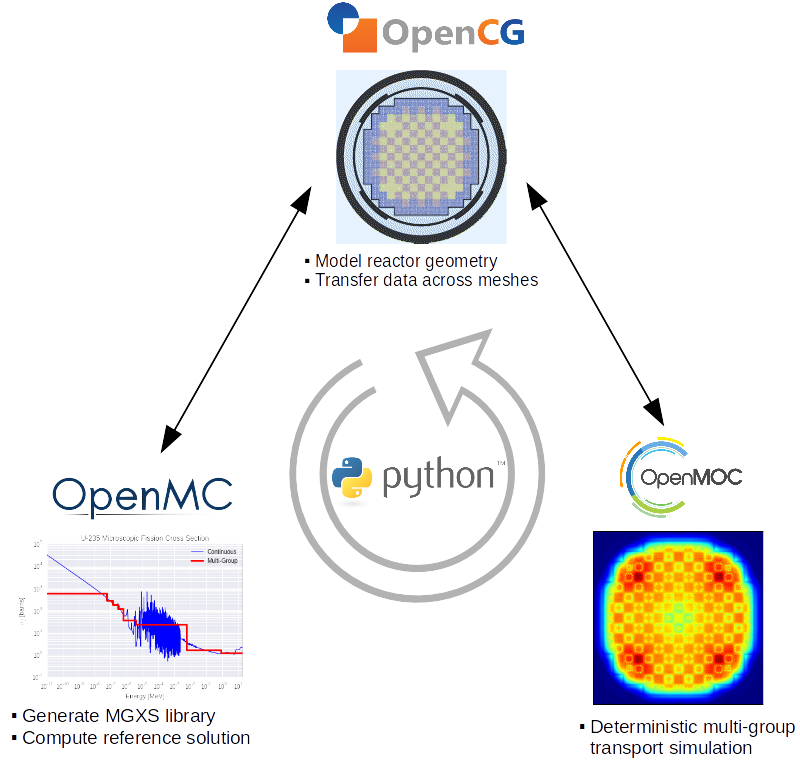
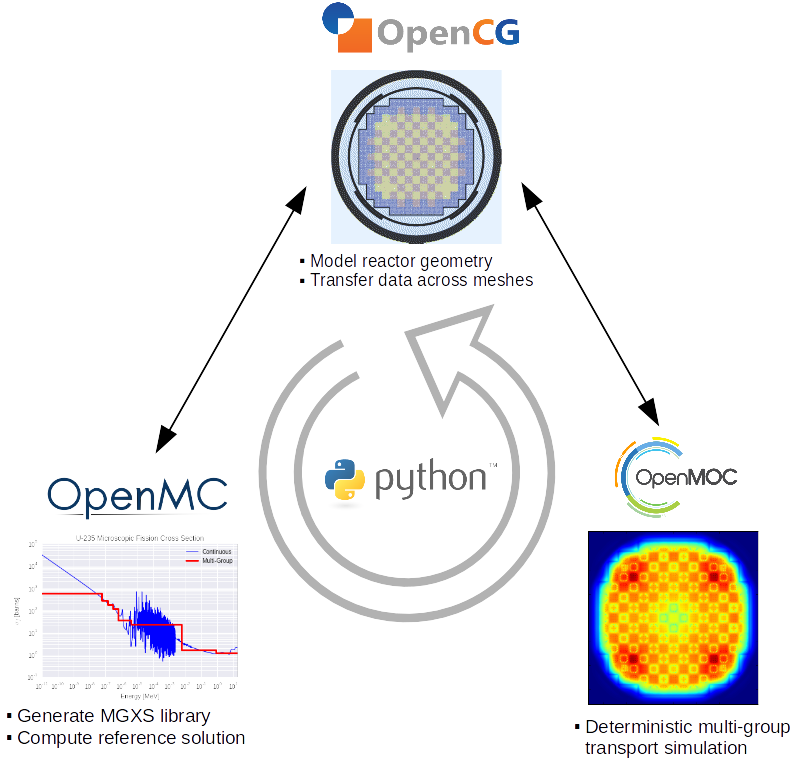
First round of updates for kords comments

diff --git a/chapters/workflow.tex b/chapters/workflow.tex
@@ -31,7 +31,7 @@ This thesis investigates Monte Carlo as a means to generate multi-group cross se
 
 \begin{figure}[h]
   \centering
-  \includegraphics[width=0.8\linewidth]{figures/workflow/triad/simulation-triad}
+  \includegraphics[width=\linewidth]{figures/workflow/triad/simulation-triad}
 \caption[A simulation triad of OpenMC, OpenMOC and OpenCG]{A simulation triad consisting of the OpenMC, OpenMOC and OpenCG codes ``glued'' together with Python formed the foundation for this thesis research.}
 \label{fig:chap4-simulation-triad}
 \end{figure}
@@ -61,12 +61,12 @@ This chapter describes the author's contributions to each component code in the 
 \section{OpenMC}
 \label{sec:chap4-openmc}
 
-The OpenMC code is a continuous energy Monte Carlo neutron transport code~\cite{romano2013openmc} with support for general constructive solid geometry models. OpenMC was initially created by Romano for his PhD thesis~\cite{romano2013parallel} to explore novel parallel algorithms for \ac{HPC} architectures. The code was released for public use with the MIT open source license, and has attracted growing interest as a platform for the development of new physics methods and computational algorithms. Although this thesis could have plausibly used any continuous energy \ac{MC} neutron transport code to generate \ac{MGXS}, this author chose OpenMC for its general and extensible implementation, excellent parallel scalability, and open source license agreement which permits the modification of its codebase. The general physics and computational methods implemented in OpenMC will not be detailed here since they are well documented in the literature. The interested reader is referred to the online code manual~\cite{openmc2016manual} for further information.
+The OpenMC code is a continuous energy Monte Carlo neutron transport code~\cite{romano2013openmc} with support for general constructive solid geometry models. OpenMC was initially created by Romano for his Ph.D. thesis~\cite{romano2013parallel} to explore novel parallel algorithms for \ac{HPC} architectures. The code was released for public use with the MIT open source license, and has attracted growing interest as a platform for the development of new physics methods and computational algorithms. Although this thesis could have plausibly used any continuous energy \ac{MC} neutron transport code to generate \ac{MGXS}, this author chose OpenMC for its general and extensible implementation, excellent parallel scalability, and open source license agreement which permits the modification of its codebase. The general physics and computational methods implemented in OpenMC will not be detailed here since they are well documented in the literature. The interested reader is referred to the online code manual~\cite{openmc2016manual} for further information.
 
 This thesis developed new features for OpenMC to enable the processing of large tally datasets to generate \ac{MGXS}. These contributions were motivated by the novel spatial homogenization technique presented in 
 Chaps.~\Crefrange{chap:benchmarks}{chap:unsupervised} which required the calculation of microscopic \ac{MGXS} for each nuclide in each spatial zone across a reactor core geometry. The tally datasets for this scheme are orders of magnitude larger than those generated by the multi-level approaches previously considered in the literature. In particular, the tally datasets are computed on a fine (\textit{e.g.}, pin-wise) spatial tally mesh for a fully-detailed heterogeneous whole-core geometry. This stands in contrast to multi-level approaches which compute \ac{MGXS} for each unique fuel pin or assembly with infinite lattice boundary conditions for use in a multi-group whole-core calculation. For example, the scheme introduced here would tally \ac{MGXS} for each of the $\mathcal{O}(50,000)$ fuel pins in a whole-core \ac{MC} simulation of a \ac{PWR}. In contrast, a multi-level approach would compute \ac{MGXS} for the $\mathcal{O}(10)$ of unique fuel pins or assemblies in the model with pin-wise or assembly-wise \ac{MC} simulations.
 
-This thesis' requirements for ``big data'' Monte Carlo calculations can be defined along two primary dimensions: scalable parallel algorithms for efficient \ac{MC} tracking, sampling and tallying, along with flexible and robust tools for downstream data processing. The first of these dimensions has been a focal point for OpenMC development since its inception. OpenMC includes distributed memory parallelism via the Message Passing Interface (MPI) and has been shown to scale with near perfect efficiency to 100,000s of processor cores~\cite{romano2013parallel}. In addition, shared memory parallelism is implemented with the OpenMP library~\cite{siegel2014multi} which reduces the simulation memory footprint by minimizing domain replication on multi-core processors. Furthermore, recent work has developed innovative schemes to manage tally datasets with memory footprints beyond that available on a single node in a typical \ac{HPC} machine (a few tens of gigabytes) with tally servers~\cite{romano2013servers} and spatial domain decomposition~\cite{horelik2014dd}. The efficient parallel algorithms already implemented in OpenMC were a key reason to use the code for this thesis work.
+This thesis' requirements for ``big data'' Monte Carlo calculations can be defined along two primary dimensions: scalable parallel algorithms for efficient \ac{MC} tracking, sampling and tallying, along with flexible and robust tools for downstream data processing. The first of these dimensions has been a focal point for OpenMC development since its inception. OpenMC includes distributed memory parallelism via the Message Passing Interface (MPI)~\cite{gropp1996mpi} and has been shown to scale with near perfect efficiency to 100,000s of processor cores~\cite{romano2013parallel}. In addition, shared memory parallelism is implemented with the OpenMP library~\cite{siegel2014multi} which reduces the simulation memory footprint by minimizing domain replication on multi-core processors. Furthermore, recent work has developed innovative schemes to manage tally datasets with memory footprints beyond that available on a single node in a typical \ac{HPC} machine (a few tens of gigabytes) with tally servers~\cite{romano2013servers} and spatial domain decomposition~\cite{horelik2014dd}. The efficient parallel algorithms already implemented in OpenMC were a key reason to use the code for this thesis work.
 
 However, this thesis did involve the development of software tools to address the data processing needs for ``big data'' \ac{MC} calculations. It is the author's opinion that these data processing tools uniquely position OpenMC as the only \ac{MC} code presently capable of supporting the \ac{MGXS} generation scheme introduced in Chaps.~\Crefrange{chap:benchmarks}{chap:unsupervised}. For example, many commonly used \ac{MC} codes store and retrieve tally data from \ac{ASCII} formatted files or flat binary files. Although these file formats may work well for small tally datasets, they do not scale well for the tally datasets used in this thesis. The data processing paradigm reinforced by many \ac{MC} codes places an large burden on the user to write convoluted parsers to extract tally data without a generic set of tools to guide the process. In addition, many tally data stores are organized in a way that necessarily serializes tally data access without the metadata needed to index data in an efficient and parallel manner. Furthermore, many data stores are highly tailored to tallies on Cartesian or hexagonal meshes rather than the more complex unstructured meshes needed to generate \ac{MGXS} for fine mesh transport codes. The software tools developed for this thesis attempt to mitigate these issues and formalize a flexible and scalable tally data model for OpenMC.
 
@@ -160,14 +160,24 @@ It should be noted that the uncertainty propagation in tally arithmetic makes th
 Many Monte Carlo codes, including OpenMC, use some variant of combinatorial geometry. because it can represent arbitrary, repeating geometries such as fuel pins and assemblies. However, the \ac{CG} approach is challenged by applications which require tallies in each instance of a repeated cell throughout a reactor geometry, such as the \ac{BEAVRS} benchmark model~\cite{horelik2013beavrs} depicted in Fig.~\ref{fig:beavrs}. The ``brute force'' solution is to instantiate a unique cell for each distinct tally zone. However, this defeats the purpose of using \ac{CG} for its compact representation, and it is not scalable to problems with large tally datasets such as those considered in this thesis.
 
 \begin{figure}[h!]
+\begin{subfigure}{\textwidth}
   \centering
-  \includegraphics[width=2.5in]{figures/workflow/openmc/core}\hspace{1cm}
-  \includegraphics[width=2.5in]{figures/workflow/openmc/core_axial}
+  \includegraphics[width=5in]{figures/workflow/openmc/core}
+  \caption{}
+\end{subfigure}
+\begin{subfigure}{\textwidth}
+  \centering
+  \includegraphics[width=5in]{figures/workflow/openmc/core_axial}
+  \caption{}
+\end{subfigure}
+%  \centering
+%  \includegraphics[width=5in]{figures/workflow/openmc/core}\hspace{1cm}
+%  \includegraphics[width=5in]{figures/workflow/openmc/core_axial}
 \caption[Radial and axial views of the BEAVRS core]{The radial (a) and axial (b) views of the BEAVRS \ac{PWR} core geometry~\cite{horelik2013beavrs}. The distributed cell tally algorithm provides a simple and efficient interface to tally within each of the 50,000+ fuel, guide tube, and burnable poison pin cells in complex heterogeneous models like the \ac{BEAVRS} core.}
 \label{fig:beavrs}
 \end{figure}
 
-The \textit{distributed cell tally} algorithm was implemented in OpenMC to permit simply defined spatial tally zones across repeated cell instances~\cite{lax2014distribcell}. The distributed cell algorithm, commonly abbreviated as the \textit{distribcell} algorithm, classifies each unique cell instance using \textit{maps} and \textit{offsets} which consume orders of magnitude less memory than would be required by the ``brute force'' approach. Only a single transparent line of \ac{XML} input is necessary to define a distribcell tally which may span across an arbitrary number of instances for a particular cell. Furthermore, the Python \ac{API} may be used to perform efficient vectorized transformations of distribcell tally data stored as contiguous NumPy arrays. The distribcell tally algorithm was used to compute spatially-varying \ac{MGXS} across fuel pin cell instances for the spatial homogenization methology introduced in Chaps.~\Crefrange{chap:benchmarks}{chap:unsupervised}.
+The \textit{distributed cell tally} algorithm was implemented in OpenMC for D. Lax's M.S. thesis~\cite{lax2014distribcell} to permit simply defined spatial tally zones across repeated cell instances. The distributed cell algorithm, commonly abbreviated as the \textit{distribcell} algorithm, classifies each unique cell instance using \textit{maps} and \textit{offsets} which consume orders of magnitude less memory than would be required by the ``brute force'' approach. Only a single transparent line of \ac{XML} input is necessary to define a distribcell tally which may span across an arbitrary number of instances for a particular cell. Furthermore, the Python \ac{API} may be used to perform efficient vectorized transformations of distribcell tally data stored as contiguous NumPy arrays. The distribcell tally algorithm was used to compute spatially-varying \ac{MGXS} across fuel pin cell instances for the spatial homogenization methology introduced in Chaps.~\Crefrange{chap:benchmarks}{chap:unsupervised}.
 
 The distribcell tally algorithm consists of pre-processing and indexing stages. The pre-processing phase builds a mapping to index unique regions based on the unique combination of cells, universes and lattices used to construct each region. This is done by storing offset numbers in the data structures for each fill cell\footnote{Any cell that is filled with a nested universe or lattice of cells.}. The offset maps are recursively constructed starting from the top-level universe and proceeding through each lower nested universe level in the combinatorial geometry. The pre-processing algorithm tabulates the total number of instances of each cell in the geometry in order to dynamically allocate memory for distribcell tally arrays. At runtime, the on-the-fly indexing scheme efficiently computes cell instance IDs in order to index and score to the appropriate bin(s) in distribcell tallies. The cell instance IDs are simply found by summing the offsets at each nested universe level along the path to the cell instance in the \ac{CG} as shown in Fig.~\ref{fig:indexing-scheme}. The interested reader is referred to~\cite{lax2014distribcell} for details about the distribcell tally algorithm, including pseudocode for pre-processing and indexing and a performance model for the memory footprint consumed by offsets and maps.
 
@@ -184,7 +194,7 @@ The distribcell tally algorithm consists of pre-processing and indexing stages. 
 
 As part of this thesis, a unique option for isotropic in lab scattering was implemented in the OpenMC code. The isotropic in lab (abbreviated as iso-in-lab) feature may be useful to quantify the ability of multi-group codes to capture anisotropic scattering effects with higher order scattering matrices or transport correction schemes (see Sec.~\ref{subsec:chap2-transport-corr}). The iso-in-lab scattering feature was implemented as a ``scattering'' attribute for each nuclide/element in a simulation. When iso-in-lab scattering is specified for a nuclide/element, the outgoing neutron energy is sampled from the scattering laws prescribed by the continuous energy cross section library, but the outgoing neutron direction of motion is sampled from an isotropic in lab distribution. 
 
-Unless otherwise noted, isotropic in lab scattering was employed in OpenMC to generate the \ac{MGXS} used in this thesis. The iso-in-lab scattering feature enabled ``apples-to-apples'' comparisons between the reference eigenvalues and reaction rates produced by OpenMC and those computed from isotropic multi-group calculations with OpenMOC.
+Unless otherwise noted, isotropic in lab scattering was employed in OpenMC to generate the \ac{MGXS} used in this thesis. Isotropic scattering is generally not a valid approximation for nuclear reactors and may induce large errors for thermal systems such as the \ac{PWR} benchmarks modeled in this thesis. However, the iso-in-lab scattering feature enabled ``apples-to-apples'' comparisons between the reference eigenvalues and reaction rates produced by OpenMC and those computed from isotropic multi-group calculations with OpenMOC.
 
 %%%%%%%%%%%%%%%%%%%%%%%%%%%%
 \subsection{MGXS Generation}
@@ -373,7 +383,7 @@ OpenCG's object-oriented Python software model permits greater freedom for geome
 
 One of the unique algorithms implemented in OpenCG explicitly for this thesis is known as Local Neighbor Symmetry (LNS) identification~\cite{boyd2015opencg}. The LNS algorithm is motivated by this thesis' objective to accurately predict spatial zones that experience similar spectral self-shielding effects. The \ac{LNS} algorithm performs a systematic analysis of a \ac{CG} tree data structure to identify neighbor cells, or pairs of cells which are adjacent to one another. The neighbor cells are assembled into a heuristic which groups like spatial zones with common \ac{LNS} identifiers. The \ac{LNS} algorithm is analogous to the geometric templates used in lattice physics codes such as CASMO~\cite{edenius1995casmo} to identify fuel pins which have similar \ac{MGXS} in a fuel assembly.
 
-The \ac{LNS} algorithm identifies the unique symmetry for the path to a region in a combinatorial geometry as described in Alg.~\ref{alg:local-neighbor-symmetry-cells}. \ac{LNS} performs a \ac{BFS} to find neighbors on each level of the \ac{CG} tree. For example, \ac{BFS} is used to find neighbor cells for a particular cell within a universe. Similarly, \ac{BFS} is used to find neighbor universes adjacent to a particular lattice cell. The neighbor cells and universes on each of the $k$ levels of a \ac{CG} tree are connected to form a $k$-partite graph\footnote{A $k$-partite graph is a graph whose graph vertices can be partitioned into $k$ disjoint sets so that no two vertices within the same set are adjacent~\cite{weisstein2012kpartite}.} as depicted in Fig.~\ref{fig:lns-k-partite-graph}. Finally, the $k$-partite graph is used as an argument to a hash function to compute the \ac{LNS} identifier (\textit{e.g}, a non-negative integer) for the particular region represented by the path. This algorithmic formulation is general to any arbitrary combinatorial geometry, including those commonly used to model \ac{LWRs} with nested rectilinear lattices.
+The \ac{LNS} algorithm identifies the unique symmetry for the path to a region in a combinatorial geometry as described in Alg.~\ref{alg:local-neighbor-symmetry-cells}. \ac{LNS} performs a \ac{BFS} to find neighbors on each level of the \ac{CG} tree. For example, \ac{BFS} is used to find neighbor cells for a particular cell within a universe. Similarly, \ac{BFS} is used to find neighbor universes adjacent to a particular lattice cell. The neighbor cells and universes on each of the $k$ levels of a \ac{CG} tree are connected to form a $k$-partite graph\footnote{A $k$-partite graph is a graph whose graph vertices can be partitioned into $k$ disjoint sets so that no two vertices within the same set are adjacent~\cite{weisstein2012kpartite}.} as depicted in Fig.~\ref{fig:lns-k-partite-graph}. Finally, the $k$-partite graph is used as an argument to a hash function to compute the \ac{LNS} identifier (\textit{e.g}, a non-negative integer) for the particular region represented by the path. This algorithmic formulation is general to any arbitrary combinatorial geometry, including those commonly used to model \ac{LWR}s with nested rectilinear lattices.
 
 \begin{algorithm}[h!]
 \caption[OpenCG's Local Neighbor Symmetry Identification]{Local Neighbor Symmetry Identification}

diff --git a/chapters/biases.tex b/chapters/biases.tex
@@ -14,10 +14,10 @@ This chapter investigates the loss in accuracy resulting from approximations mad
 
 \begin{equation}
 \label{eqn:chap5-delta-rho}
-\Delta\rho = \left(k_{eff}^{OpenMOC} - k_{eff}^{OpenMC}\right) \times 1E5
+\Delta\rho = \left(k_{eff}^{OpenMOC} - k_{eff}^{OpenMC}\right) \times 10_{5}
 \end{equation}
 
-In each case study, the role of angular discretization in \ac{MOC} is quantified through convergence studies of the number of azimuthal angles and the track spacing used in the deterministic \ac{MOC} calculations. The effects of energy discretization are analyzed for \ac{MGXS} tallied in the CASMO~\cite{rhodes2006casmo} energy group structures ranging from 1 -- 70 groups (see App.~\ref{app:energy-groups}). For each of the case studies with heterogeneous geometries, the spatial domain is discretized in OpenMOC's \ac{FSR} mesh with constant-by-material \ac{MGXS} to quantify the interaction between the energy and spatial approximations. Spatial discretization studies show the impact of tallying \ac{MGXS} in each of the \ac{FSR}s used in the discretized OpenMOC geometry. Finally, \ac{MGXS} libraries were tallied using OpenMC's iso-in-lab feature (see Sec.~\ref{subsec:chap4-iso-in-lab}) to quantify the impact of the isotropic in lab scattering approximation used in OpenMOC. Inter-pin spatial self-shielding effects are not treated here as they are studied in detail in Chaps.~\Crefrange{chap:benchmarks}{chap:unsupervised}. In each case study, OpenMOC was converged to a criterion of 1E-7 on the energy-integrated fission source.
+In each case study, the role of angular discretization in \ac{MOC} is quantified through convergence studies of the number of azimuthal angles and the track spacing used in the deterministic \ac{MOC} calculations. The effects of energy discretization are analyzed for \ac{MGXS} tallied in the CASMO~\cite{rhodes2006casmo} energy group structures ranging from 1 -- 70 groups (see App.~\ref{app:energy-groups}). For each of the case studies with heterogeneous geometries, the spatial domain is discretized in OpenMOC's \ac{FSR} mesh with constant-by-material \ac{MGXS} to quantify the interaction between the energy and spatial approximations. Spatial discretization studies show the impact of tallying \ac{MGXS} in each of the \ac{FSR}s used in the discretized OpenMOC geometry. Finally, \ac{MGXS} libraries were tallied using OpenMC's iso-in-lab feature (see Sec.~\ref{subsec:chap4-iso-in-lab}) to quantify the impact of the isotropic in lab scattering approximation used in OpenMOC. Inter-pin spatial self-shielding effects are not treated here as they are studied in detail in Chaps.~\Crefrange{chap:benchmarks}{chap:unsupervised}. In each case study, OpenMOC was converged to a criterion of 10$_{-7}$ on the energy-integrated fission source in each \ac{FSR}.
 
 %%%%%%%%%%%%%%%%%%%%%%%%%%%%
 \subsection{Homogeneous Infinite Medium}
@@ -46,7 +46,7 @@ An initial series of case studies were performed for a homogeneous infinite medi
 \end{tabular}
 \end{table}
 
-The reference eigenvalues computed with continuous energy cross sections in OpenMC are shown in Tab.~\ref{table:chap5-inf-med-reference} for both normal anisotropic as well as iso-in-lab scattering. As one would expect for a homogeneous infinite medium, the eigenvalues for anisotropic and iso-in-lab scattering agree to within one standard deviation of the mean. The reference calculations were computed for 100 batches of 1E8 particles per batch. The \texttt{openmc.mgxs} module was used to compute 70-group libraries of $\hat{\Sigma}_{t,g}$, $\hat{\Sigma}_{s,k,g'\rightarrow g}$, $\nu\hat{\Sigma}_{f,g}$, and $\hat{\chi}_{g}$ from OpenMC tallies (see Tab.~\ref{table:chap3-tally-types}).
+The reference eigenvalues computed with continuous energy cross sections in OpenMC are shown in Tab.~\ref{table:chap5-inf-med-reference} for both normal anisotropic as well as iso-in-lab scattering. As one would expect for a homogeneous infinite medium, the eigenvalues for anisotropic and iso-in-lab scattering agree to within one standard deviation of the mean. The reference calculations were computed for 100 batches of 10$_{8}$ particles per batch. The \texttt{openmc.mgxs} module was used to compute 70-group libraries of $\hat{\Sigma}_{t,g}$, $\hat{\Sigma}_{s,k,g'\rightarrow g}$, $\nu\hat{\Sigma}_{f,g}$, and $\hat{\chi}_{g}$ from OpenMC tallies (see Tab.~\ref{table:chap3-tally-types}).
 
 \begin{table}[h!]
   \centering
@@ -70,6 +70,8 @@ The reference eigenvalues computed with continuous energy cross sections in Open
 \label{subsubsec:chap5-inf-med-angle}
 
 The first case study investigated the sensitivity of the OpenMOC eigenvalue to the angular discretization used in the \ac{MOC} calculation. Tab.~\ref{table:chap5-inf-med-angle} presents the bias $\Delta\rho$ between OpenMC and OpenMOC for a matrix of azimuthal angles and track spacings. The results for both normal and iso-in-lab scattering indicate consistent agreement of the eigenvalues irregardless of track discretization. This result is expected since the neutron source is isotropic in homogeneous infinite media and does not depend on the angular discretization used to solve the eigenvalue problem.
+
+\vspace{0.1in}
 
 \begin{table}[h!]
   \centering
@@ -106,7 +108,7 @@ The first case study investigated the sensitivity of the OpenMOC eigenvalue to t
 \subsubsection{Energy Condensation}
 \label{subsubsec:chap5-inf-med-energy}
 
-A second case study investigated the variation of the OpenMOC eigenvalue with the energy group structure used in the \ac{MOC} calculation. Tab.~\ref{table:chap5-inf-med-energy} presents the bias $\Delta\rho$ between OpenMC and OpenMOC for a matrix of energy group structures and \ac{FSR} spatial discretizations. The OpenMOC calculations each used 128 azimuthal angles and 0.01 cm track spacing. Although the eigenvalues differ by approximately 10 \ac{pcm} for 1 -- 2 groups, the OpenMOC eigenvalues match the eigenvalues computed analytically from the 1- and 2-group \ac{MGXS} to within 1 pcm. The 10 \ac{pcm} bias may be due to numerical roundoff error since the \ac{MGXS} library was tallied in 70 groups in OpenMC and condensed to the coarser group structures with data processing  by the \texttt{openmc.mgxs} module.
+A second case study investigated the variation of the OpenMOC eigenvalue with the energy group structure used in the \ac{MOC} calculation. Tab.~\ref{table:chap5-inf-med-energy} presents the bias $\Delta\rho$ between OpenMC and OpenMOC for a matrix of energy group structures and \ac{FSR} spatial discretizations. The OpenMOC calculations each used 128 azimuthal angles and 0.01 cm track spacing. Although the eigenvalues differ by approximately 10 \ac{pcm} for 1 and 2 groups, the OpenMOC eigenvalues match the eigenvalues computed analytically from the 1- and 2-group \ac{MGXS} to within 1 pcm. The 10 \ac{pcm} bias may be due to numerical roundoff error since the \ac{MGXS} library was tallied in 70 groups in OpenMC and condensed to the coarser group structures with data processing  by the \texttt{openmc.mgxs} module.
 
 \begin{table}[h!]
   \centering
@@ -142,7 +144,7 @@ A second case study investigated the variation of the OpenMOC eigenvalue with th
 \subsection{1D Slab}
 \label{subsec:chap5-slab}
 
-A simple slab model was constructed to quantify approximation errors in a 1D heterogeneous geometry with spatial self-shielding. The slab model was constructed as an ``equivalent'' 1D model to the 1.6\% enriched UO$_2$ \ac{PWR} fuel pin in the \ac{BEAVRS} \ac{PWR} model~\cite{horelik2013beavrs}. The geometric configuration of UO$_2$ fuel, helium gap, zirconium clad and water moderator is illustrated in Fig.~\ref{fig:chap5-slab} and the dimensions for each material zone are shown in Tab.~\ref{table:chap5-slab-widths}. The width of each spatial region was chosen to preserve the volumetric fraction of each material in the slab with those in the corresponding 2D fuel pin\footnote{A truly ``equivalent'' slab would preserve the mean chord lengths of each material in the 2D fuel pin.}. Reflective boundary conditions were applied to all $x$, $y$ and $z$ boundaries in the geometry. The isotopic composition of each material in the slab is identical to the \ac{BEAVRS} fuel pin and is itemized in Tab.~\ref{table:chap5-slab-isotopes}. 
+A simple slab model was constructed to quantify approximation errors in a 1D heterogeneous geometry with spatial self-shielding. The slab model was constructed as an ``equivalent'' 1D model to the 2.4\% enriched UO$_2$ \ac{PWR} fuel pin in the \ac{BEAVRS} \ac{PWR} model~\cite{horelik2013beavrs}. The geometric configuration of UO$_2$ fuel, helium gap, zirconium clad and water moderator is illustrated in Fig.~\ref{fig:chap5-slab} and the dimensions for each material zone are shown in Tab.~\ref{table:chap5-slab-widths}. The width of each spatial region was chosen to preserve the volumetric fraction of each material in the slab with those in the corresponding 2D fuel pin\footnote{A truly ``equivalent'' slab would preserve the mean chord lengths of each material in the 2D fuel pin.}. Reflective boundary conditions were applied to all $x$, $y$ and $z$ boundaries in the geometry. The isotopic composition of each material in the slab is identical to the \ac{BEAVRS} fuel pin and is itemized in Tab.~\ref{table:chap5-slab-isotopes}. 
 
 \begin{figure}[h!]
 \begin{subfigure}{\textwidth}
@@ -212,7 +214,7 @@ A simple slab model was constructed to quantify approximation errors in a 1D het
 \end{tabular}
 \end{table}
 
-The reference eigenvalues computed with continuous energy cross sections in OpenMC are shown in Tab.~\ref{table:chap5-slab-reference} for both normal anisotropic as well as iso-in-lab scattering. The reference calculations were computed for 100 batches of 1E7 particles per batch. The reference eigenvalues for the two cases vary by nearly 75 \ac{pcm} due to anisotropies resulting from thermal scattering in the moderator. The \texttt{openmc.mgxs} module was used to compute 70-group libraries of $\hat{\Sigma}_{t,k,g}$, $\hat{\tilde{\Sigma}}_{t,k,g}$, $\hat{\Sigma}_{s,k,g'\rightarrow g}$, $\hat{\tilde{\Sigma}}_{s,k,g'\rightarrow g}$, $\nu\hat{\Sigma}_{f,g}$, and $\hat{\chi}_{g}$ from OpenMC tallies (see Tab.~\ref{table:chap3-tally-types}).
+The reference eigenvalues computed with continuous energy cross sections in OpenMC are shown in Tab.~\ref{table:chap5-slab-reference} for both normal anisotropic as well as iso-in-lab scattering. The reference calculations were computed for 100 batches of 10$_{7}$ particles per batch. The reference eigenvalues for the two cases vary by nearly 75 \ac{pcm} due to anisotropies resulting from thermal scattering in the moderator. The \texttt{openmc.mgxs} module was used to compute 70-group libraries of $\hat{\Sigma}_{t,k,g}$, $\hat{\tilde{\Sigma}}_{t,k,g}$, $\hat{\Sigma}_{s,k,g'\rightarrow g}$, $\hat{\tilde{\Sigma}}_{s,k,g'\rightarrow g}$, $\nu\hat{\Sigma}_{f,g}$, and $\hat{\chi}_{g}$ from OpenMC tallies (see Tab.~\ref{table:chap3-tally-types}).
 
 \begin{table}[h!]
   \centering
@@ -450,7 +452,7 @@ A \ac{PWR} fuel pin cell model was constructed to quantify approximation errors 
 \label{fig:chap5-pin-cell}
 \end{figure}
 
-The reference eigenvalues computed with continuous energy cross sections in OpenMC are shown in Tab.~\ref{table:chap5-pin-reference} for both normal anisotropic and iso-in-lab scattering. The reference calculations were computed for 100 batches of 1E7 particles per batch. The reference eigenvalues for the two cases vary by 65 \ac{pcm} due to anisotropic thermal scattering in the moderator, roughly the same as that for the 1D slab geometry. The \texttt{openmc.mgxs} module was used to compute 70-group libraries of $\hat{\Sigma}_{t,k,g}$, $\hat{\tilde{\Sigma}}_{t,k,g}$, $\hat{\Sigma}_{s,k,g'\rightarrow g}$, $\hat{\tilde{\Sigma}}_{s,k,g'\rightarrow g}$, $\nu\hat{\Sigma}_{f,g}$, and $\hat{\chi}_{g}$ from OpenMC tallies (see Tab.~\ref{table:chap3-tally-types}). 
+The reference eigenvalues computed with continuous energy cross sections in OpenMC are shown in Tab.~\ref{table:chap5-pin-reference} for both normal anisotropic and iso-in-lab scattering. The reference calculations were computed for 100 batches of 10$_{7}$ particles per batch. The reference eigenvalues for the two cases vary by 65 \ac{pcm} due to anisotropic thermal scattering in the moderator, roughly the same as that for the 1D slab geometry. The \texttt{openmc.mgxs} module was used to compute 70-group libraries of $\hat{\Sigma}_{t,k,g}$, $\hat{\tilde{\Sigma}}_{t,k,g}$, $\hat{\Sigma}_{s,k,g'\rightarrow g}$, $\hat{\tilde{\Sigma}}_{s,k,g'\rightarrow g}$, $\nu\hat{\Sigma}_{f,g}$, and $\hat{\chi}_{g}$ from OpenMC tallies (see Tab.~\ref{table:chap3-tally-types}). 
 
 \begin{table}[h!]
   \centering

diff --git a/chapters/introduction.tex b/chapters/introduction.tex
@@ -29,7 +29,7 @@ A key trend in recent years has been the steady progress towards whole-core neut
 
 \ac{MC} particle transport methods are often looked to as the ``gold standard'' for the future of nuclear reactor core depletion calculations. Monte Carlo methods are by their very nature \textit{reactor agnostic} in that they permit an accurate treatment of the core geometry and spectral coupling. Another appealing characteristic of \ac{MC} methods is their ability to use continuous energy cross sections with up to tens of thousands of energy points. An accurate treatment of evaluated cross section data permits high-fidelity core spectral calculations. Although new scalable parallel algorithms have enabled codes to achieve excellent scaling on 100,000s of cores, production tools for industrial workstations remain out of reach for the foreseeable future. The primary reason for this is that the inverse square root convergence rate inherent to \ac{MC} makes it computationally intractable to realize an acceptably low uncertainty for each tally of interest except on large supercomputers. Furthermore, whole-core Monte Carlo calculations require a terabyte of memory or more to store the tallied quantities, which is inaccessible except on the world's largest computing machines. Finally, the accurate energy treatment largely renders \ac{MC} methods inefficient for modern computational hardware. The stochastic treatment of the nonlinear neutron energy characterization is challenging to vectorize and results in highly disjoint memory accesses to cross section data with minimal cache reuse. 
 
-An attractive alternative to MC are deterministic methods -- such as Discrete Ordinates (S$_N$), Simplified P$_N$ (SP$_N$), and the Method of Characteristics (MOC). Deterministic methods typically do not make use of continuous energy cross section data and instead discretize the energy domain through the multi-group energy approximation as shown in Fig.~\ref{fig:chap1-u235-sigf}. The multi-group approximation considerably reduces the necessary dataset footprint for simulation. In addition, the multi-group approximation enables deterministic methods to be more readily formulated in such a way as to permit greater vectorization and cache reuse than \ac{MC} methods. However, the approximation requires an \textit{a priori} estimate of the neutron flux to compute the \ac{MGXS} in each energy group and spatial zone in order to solve for the flux distribution throughout the core.
+An attractive alternative to MC are deterministic methods -- such as Discrete Ordinates (S$_N$), Simplified P$_N$ (SP$_N$), and the Method of Characteristics (MOC). Deterministic methods typically do not make use of continuous energy cross section data and instead discretize the energy domain through the multi-group energy approximation as shown in Fig.~\ref{fig:chap1-u235-sigf}. The multi-group approximation considerably reduces the necessary dataset footprint for simulation. In addition, the multi-group approximation enables deterministic methods to be more readily formulated in such a way as to permit greater vectorization and cache reuse than \ac{MC} methods. However, the approximation requires an \textit{a priori} estimate of the neutron flux to compute the multi-group cross sections (MGXS) in each energy group and spatial zone in order to solve for the flux distribution throughout the core.
 
 \begin{emphbox}
 \textbf{This thesis is motivated by the desire to obtain Monte Carlo-quality solutions with computationally efficient deterministic neutron transport methods.}
@@ -69,7 +69,7 @@ This thesis investigates the use of Monte Carlo methods to generate \ac{MGXS} fo
 
 In addition, \ac{MC}-based \ac{MGXS} generation methods to date have retained the multi-level geometric framework to tabulate \ac{MGXS} for individual reactor components -- such as infinite fuel pins and/or assemblies -- for subsequent use in whole-core multi-group calculations. Although the use of \ac{MC} within a multi-level scheme eliminates the need to approximate the flux in energy, it is does not account for spatial self-shielding effects throughout a reactor core. This thesis abandons the multi-level framework in place of a whole-core \ac{MC} calculation which simultaneously accounts for all energy and spatial self-shielding effects in a single step.
 
-In theory, whole-core \ac{MC} calculations can be used to tally \ac{MGXS} in each spatial zone (\textit{e.g.}, 50,000+ fuel pins in a \ac{PWR} core) to account for the spatial variation of the flux. However, such simulations have not been employed for practical reasons -- in particular, the large memory footprint and computational expense of performing such calculations has been prohibitive for \ac{MC} codes until recent years. Furthermore, roughly the same number of particle histories would be required to converge the \ac{MGXS} tallies in each spatial zone as would be required for a direct whole-core calculation by \ac{MC}. Hence, it would be more sensible to simply use \ac{MC} to compute the solution to the whole-core eigenvalue problem directly rather than use it to fully embed spatial self-shielding effects in \ac{MGXS} for deterministic transport codes. Therefore, in order for \ac{MC} to be practical for reactor agnostic fine mesh \ac{MGXS} generation, a new method is required to accelerate the convergence rate of the \ac{MGXS} tallies in each fine mesh region to a degree that is not possible for conventional whole-core Monte Carlo simulations. 
+In theory, whole-core \ac{MC} calculations can be used to tally \ac{MGXS} in each spatial zone (\textit{e.g.}, 100 axial depletion zones within each of 50,000+ fuel pins in a \ac{PWR} core) to account for the spatial variation of the flux. However, such simulations have not been employed for practical reasons -- in particular, the large memory footprint and computational expense of performing such calculations has been prohibitive for \ac{MC} codes until recent years. Furthermore, roughly the same number of particle histories would be required to converge the \ac{MGXS} tallies in each spatial zone as would be required for a direct whole-core calculation by \ac{MC}. Hence, it would be more sensible to simply use \ac{MC} to compute the solution to the whole-core eigenvalue problem directly rather than use it to fully embed spatial self-shielding effects in \ac{MGXS} for deterministic transport codes. Therefore, in order for \ac{MC} to be practical for reactor agnostic fine mesh \ac{MGXS} generation, a new method is required to accelerate the convergence rate of the \ac{MGXS} tallies in each fine mesh region to a degree that is not possible for conventional whole-core Monte Carlo simulations. 
 
 This thesis proposes to use statistical clustering methods to accelerate the convergence rate of whole-core \ac{MC} calculations for \ac{MGXS} generation. This novel approach relies on the fact that many distinct spatial zones across a reactor core experience similar if not identical spatial self-shielding effects, and therefore have similar if not identical \ac{MGXS}. The stochastic nature of \ac{MC} simulations will contribute statistical ``noise'' to the tally estimates for the \ac{MGXS}. As a result, the \ac{MGXS} estimates for similarly self-shielded spatial zones will form clusters which will converge as more particle histories are simulated. The goal of this thesis is to develop and apply algorithms to identify \ac{MGXS} clusters from ``noisy'' Monte Carlo tally data and to predict the true mean of each cluster prior to convergence. This methodology aims to generate \ac{MGXS} for deterministic neutron transport codes in a reactor agnostic and computationally efficient manner.
 

diff --git a/chapters/mgxs-mc.tex b/chapters/mgxs-mc.tex
@@ -452,7 +452,7 @@ Li Cai~\cite{cai2014condensation} investigated the use of the TRIPOLI-4 code to 
 
 %Cai evaluated two approximations to the neutron current with their corresponding \ac{MC} estimators for a variety of homogenized 2D and 3D fast reactor benchmarks. Although the IGSC method appeared to improve the consistency between continuous energy and multi-group \ac{MC} results for some cases, it led to a several thousand \ac{pcm} eigenvalue bias for a few of the benchmarks. Furthermore, Cai's results demonstrated the of approximating volumetric currents within a heterogeneous geometry with strongly varying material properties. Finally, Cai's methodology 
 
-Cai explored IGSC with a \ac{MC} estimator of Todorova's current approximation for a variety of homogenized 2D and 3D fast reactor benchmarks. Although the IGSC method improved the consistency between continuous energy and multi-group \ac{MC} results for some cases, it led to a several thousand \ac{pcm} eigenvalue bias for a few of the benchmarks. Furthermore, Cai's results demonstrated the deficiency of using Todorova's current approximatoin in a heterogeneous geometry with strongly varying material properties. Cai developed and evaluated an alternative approximation to the current, termed the ``Direction-X'' current, to eliminate the approximations made in Todorova's current -- namely, that the gradient of the flux is similar to the flux spectrum itself. Although the ``Direction-X'' current greatly improved the results with respect to Todorova's current, its implementation and analysis was limited to 1D slab geometries.
+Cai explored IGSC with a \ac{MC} estimator of Todorova's current approximation for a variety of homogenized 2D and 3D fast reactor benchmarks. Although the IGSC method improved the consistency between continuous energy and multi-group \ac{MC} results for some cases, it led to a several thousand \ac{pcm} eigenvalue bias for a few of the benchmarks. Furthermore, Cai's results demonstrated the deficiency of using Todorova's current approximation in a heterogeneous geometry with strongly varying material properties. Cai developed and evaluated an alternative approximation to the current, termed the ``Direction-X'' current, to eliminate the approximations made in Todorova's current -- namely, that the gradient of the flux is similar to the flux spectrum itself. Although the ``Direction-X'' current greatly improved the results with respect to Todorova's current, its implementation and analysis was limited to 1D slab geometries.
 
 \subsubsection{OpenMC}
 \label{subsec:chap3-lit-review-transport-openmc}
